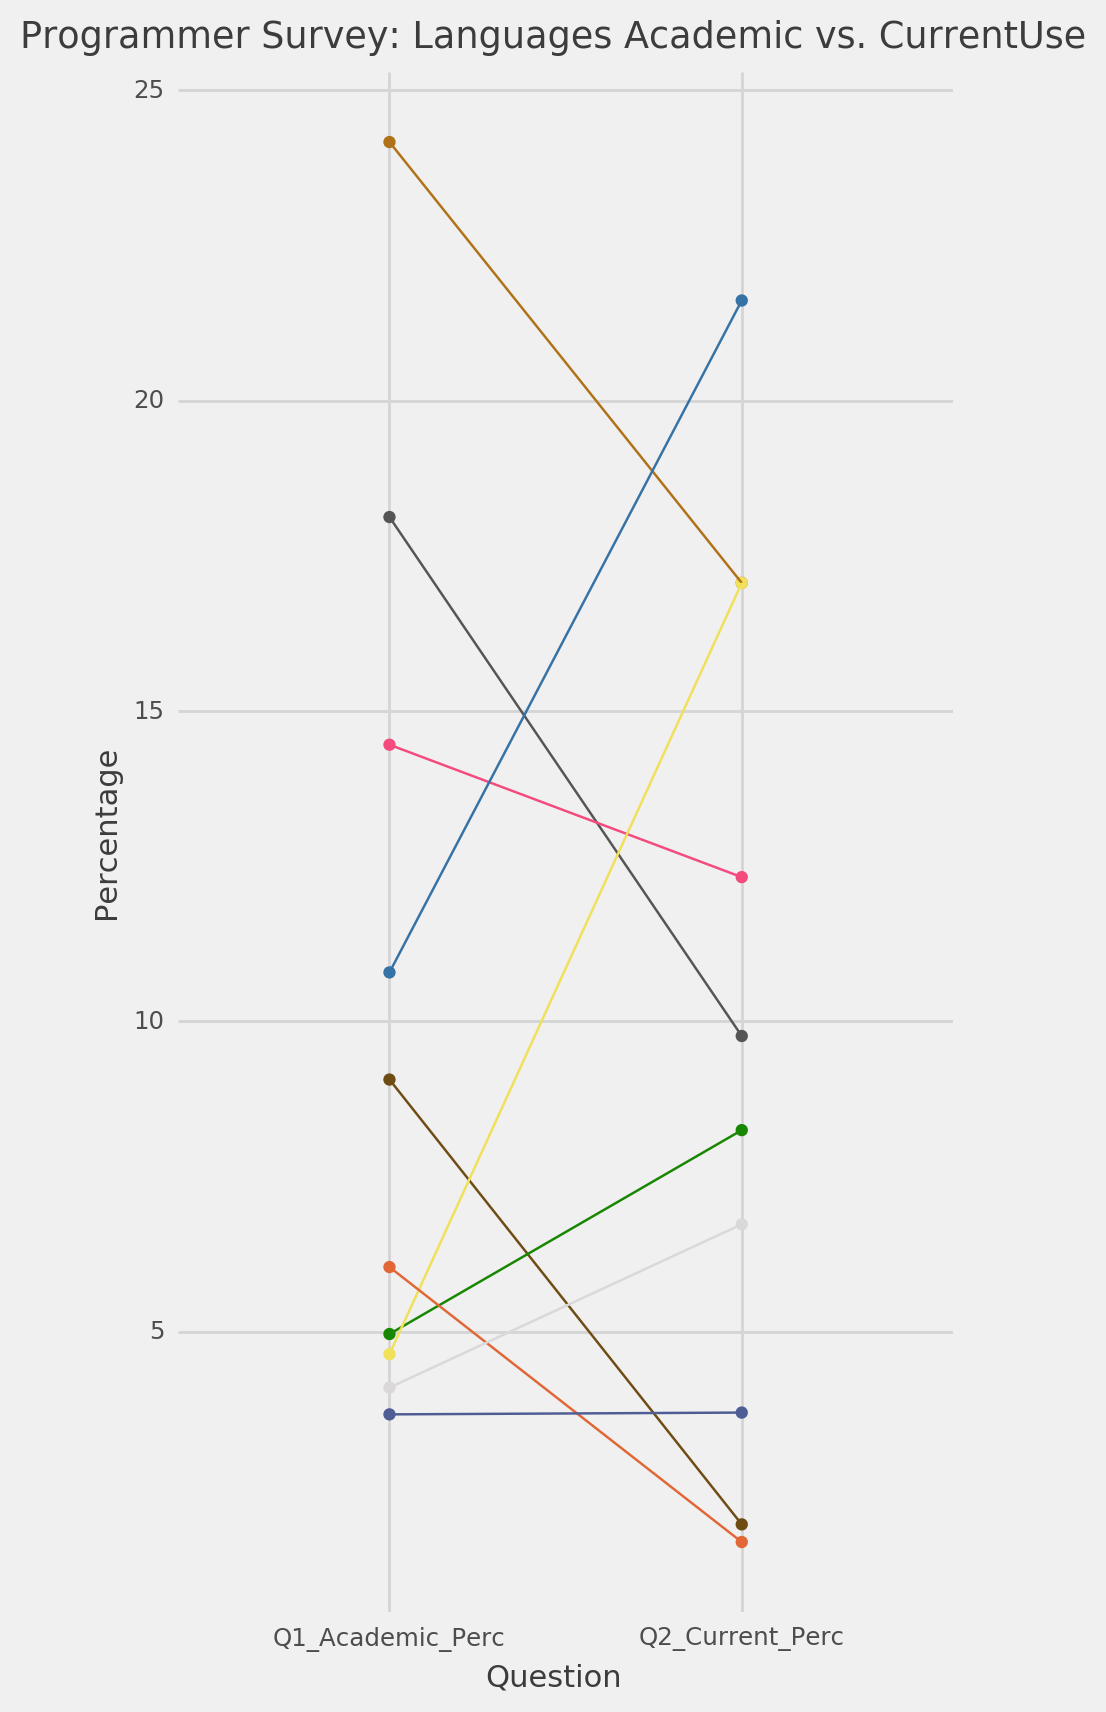
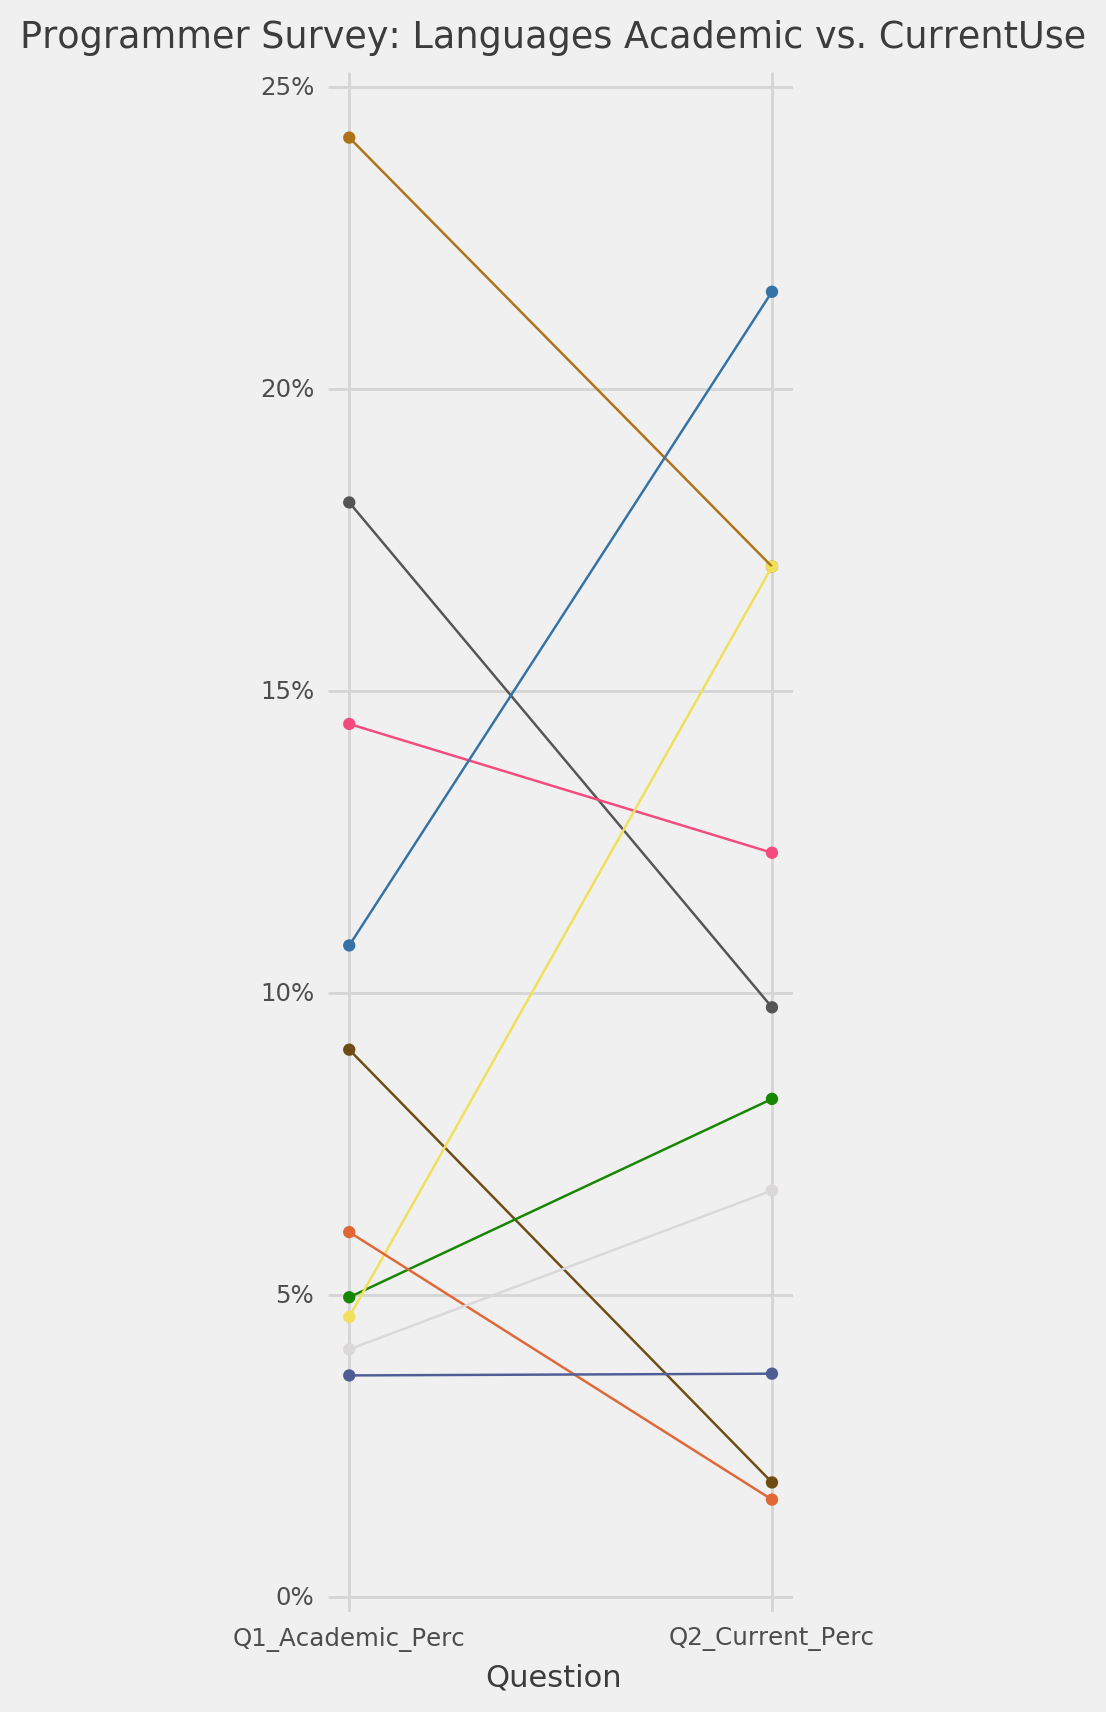
shrunk sides, added % formatting

diff --git a/SurveyGraph.py b/SurveyGraph.py
@@ -1,7 +1,6 @@
 import os
 import pandas as pd
 import numpy as np
-import itertools as it
 from pytictoc import TicToc
 from PIL import Image, ImageOps, ImageFont, ImageDraw
 from plotnine import *
@@ -224,28 +223,29 @@ for tmp_i, tmp_row in q2_df.iterrows():
 							   q_name = 'Q2Current')
 
 """
-STEP 3: ggplotting
+STEP 3A: initial parallel coordinates plot
 """
-
 # initial Parallel df
 parallel_df = pd.melt(main_survey_df, id_vars = 'Language', value_vars = ['Q1_Academic_Perc', 'Q2_Current_Perc'],
                       var_name = 'QType', value_name = 'Percent')
 
-# assigning PercentNum and Log(1 + percentNum)
-parallel_df['PercentNum'] = parallel_df['Percent'] * 100
-
 # initial ggplot obj
-parallel_ggplot = (ggplot(mapping = aes(x = 'QType', y = 'PercentNum', color = 'Language', group = 'Language'),
-							  data = parallel_df) +
-						geom_point() +
-						geom_line() +
-						#geom_label(mapping = aes(label = 'Language')) +
-						scale_color_manual(values = colorhex_sortedlst, guide = False) +
-						labs(title = 'Programmer Survey: Languages Academic vs. CurrentUse',
-							   x = 'Question', y = 'Percentage') +
-						theme_538())
+parallel_ggplot = (ggplot(mapping = aes(x = 'QType', y = 'Percent', color = 'Language', group = 'Language'),
+						  data = parallel_df) +
+					geom_point() +
+					geom_line() +
+					scale_color_manual(values = colorhex_sortedlst, guide = False) +
+					scale_x_discrete(expand = (0.05,0)) +
+					scale_y_continuous(limits = (0,0.25),
+									   breaks = list(np.arange(0,0.3,0.05)),
+									   labels = ['{:.0%}'.format(num) for num in np.arange(0,0.3, 0.05)],
+									   expand = (0.01,0)) +
+					labs(title = 'Programmer Survey: Languages Academic vs. CurrentUse',
+						 x = 'Question', y = 'Percentage') +
+					theme_538() +
+					theme(axis_title_y = element_blank()))
     
-parallel_ggplot.save('parallel_ggplot.png', width = 5, height = 10, dpi = 200)
+parallel_ggplot.save('parallel_ggplot.png', width = 3, height = 10, dpi = 200)
 
 # TOC
 tt.toc()
